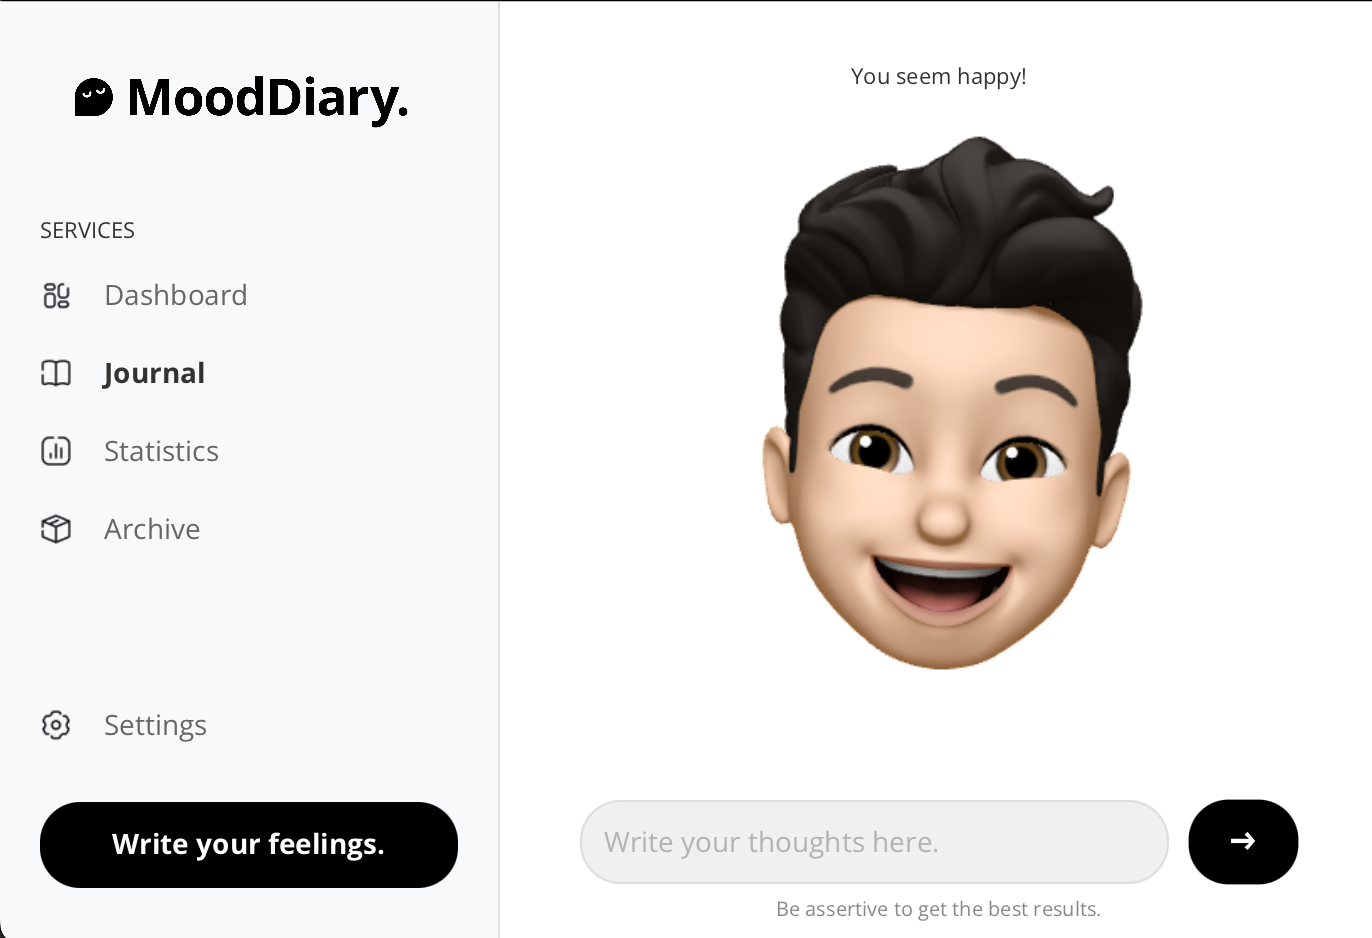
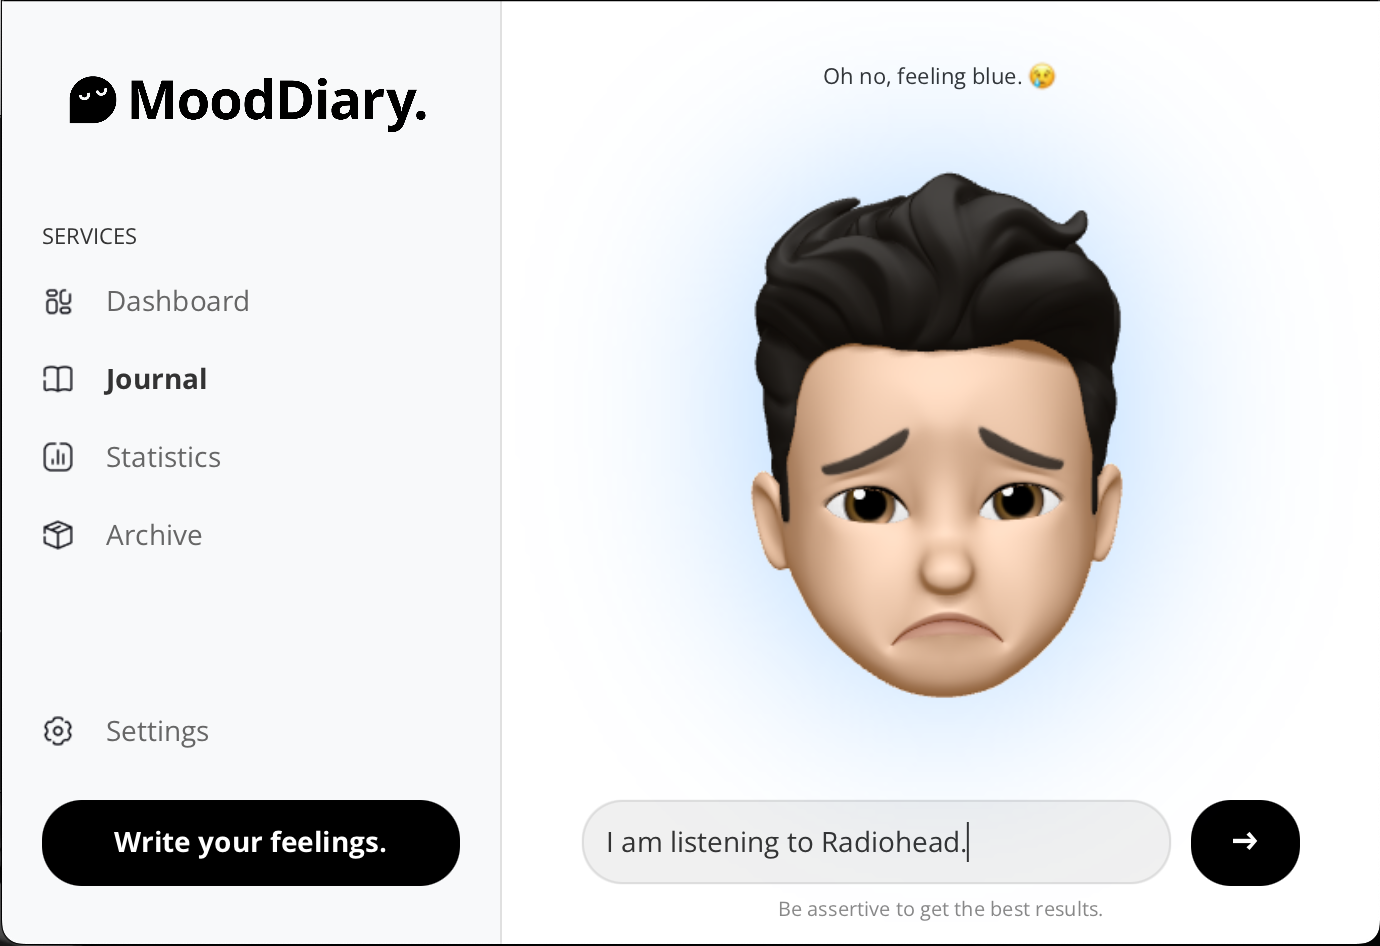
failed to get the button to work after the first use

diff --git a/frontend/src/main/resources/org/example/frontend/style.css b/frontend/src/main/resources/org/example/frontend/style.css
@@ -83,6 +83,7 @@
     -fx-font-weight: 900; /* Ensure bold */
     -fx-background-radius: 20;
     -fx-padding: 10 20;
+    -fx-order: 3;
 }
 
 .button-send:hover {
@@ -205,6 +206,7 @@
     -fx-background-radius: 20px; /* Make the background rounder */
     -fx-pref-width: 100%; /* Ensure the text field takes up the full width of its container */
     -fx-alignment: CENTER_LEFT; /* Align text to the left */
+    -fx-order: 3;
 }
 
 /* Instruction label style */
@@ -218,6 +220,7 @@
 .image-view {
     -fx-opacity: 1.0;
     -fx-transition: opacity 0.3s ease-in-out;
+    -fx-order: -100;
 }
 
 /* Archive page styles */

diff --git a/frontend/src/main/java/org/example/frontend/DiaryPageController.java b/frontend/src/main/java/org/example/frontend/DiaryPageController.java
@@ -3,6 +3,7 @@ package org.example.frontend;
 import javafx.animation.FadeTransition;
 import javafx.animation.ScaleTransition;
 import javafx.fxml.FXML;
+import javafx.scene.control.Button;
 import javafx.scene.control.Label;
 import javafx.scene.control.TextField;
 import javafx.scene.image.Image;
@@ -41,6 +42,9 @@ public class DiaryPageController {
     @FXML
     private Label sentimentLabel;
 
+    @FXML
+    private Button sendButton;
+
     private static final String API_URL = "https://mooddiary.kreativitat.com/emotion";
     private static final String API_KEY = "8a352885-623b-4077-82fb-4d33f7dd8dd0";  // Replace with your actual API key
     private static final String FILE_PATH = "diary_entries.json";
@@ -76,6 +80,10 @@ public class DiaryPageController {
         } catch (Exception e) {
             e.printStackTrace();
             textField.setText("An error occurred. Please try again.");
+        } finally {
+            textField.requestFocus();
+            sendButton.setDisable(false); // Ensure button is enabled
+            sendButton.setOpacity(1.0);   // Ensure button is fully visible
         }
     }
 
@@ -126,9 +134,10 @@ public class DiaryPageController {
             ScaleTransition scaleIn = new ScaleTransition(Duration.millis(500), emotionImageView);
             scaleIn.setFromX(0.5);
             scaleIn.setFromY(0.5);
-            scaleIn.setToX(1.2);
-            scaleIn.setToY(1.2);
+            scaleIn.setToX(1);
+            scaleIn.setToY(1);
 
+            fadeInImage.setOnFinished(e -> textField.requestFocus());
             fadeInImage.play();
             scaleIn.play();
         });
@@ -198,9 +207,6 @@ public class DiaryPageController {
         }
         sentimentLabel.setText(phrase);
         sentimentLabel.setVisible(true);
-
-        // Apply CSS for larger font size
-
 
         // Fade in the label with the new phrase
         FadeTransition fadeInLabel = new FadeTransition(Duration.millis(500), sentimentLabel);

diff --git a/frontend/src/main/java/org/example/frontend/HelloApplication.java b/frontend/src/main/java/org/example/frontend/HelloApplication.java
@@ -22,7 +22,7 @@ public class HelloApplication extends Application {
 
         Scene scene = new Scene(root, 689, 500); // Adjust dimensions as needed
         scene.getStylesheets().add(getClass().getResource("/org/example/frontend/style.css").toExternalForm());
-        stage.setTitle("MoodDiary");
+        stage.setTitle("MoodDiary.");
         stage.setScene(scene);
 
         // Set fixed size and disable resizing
